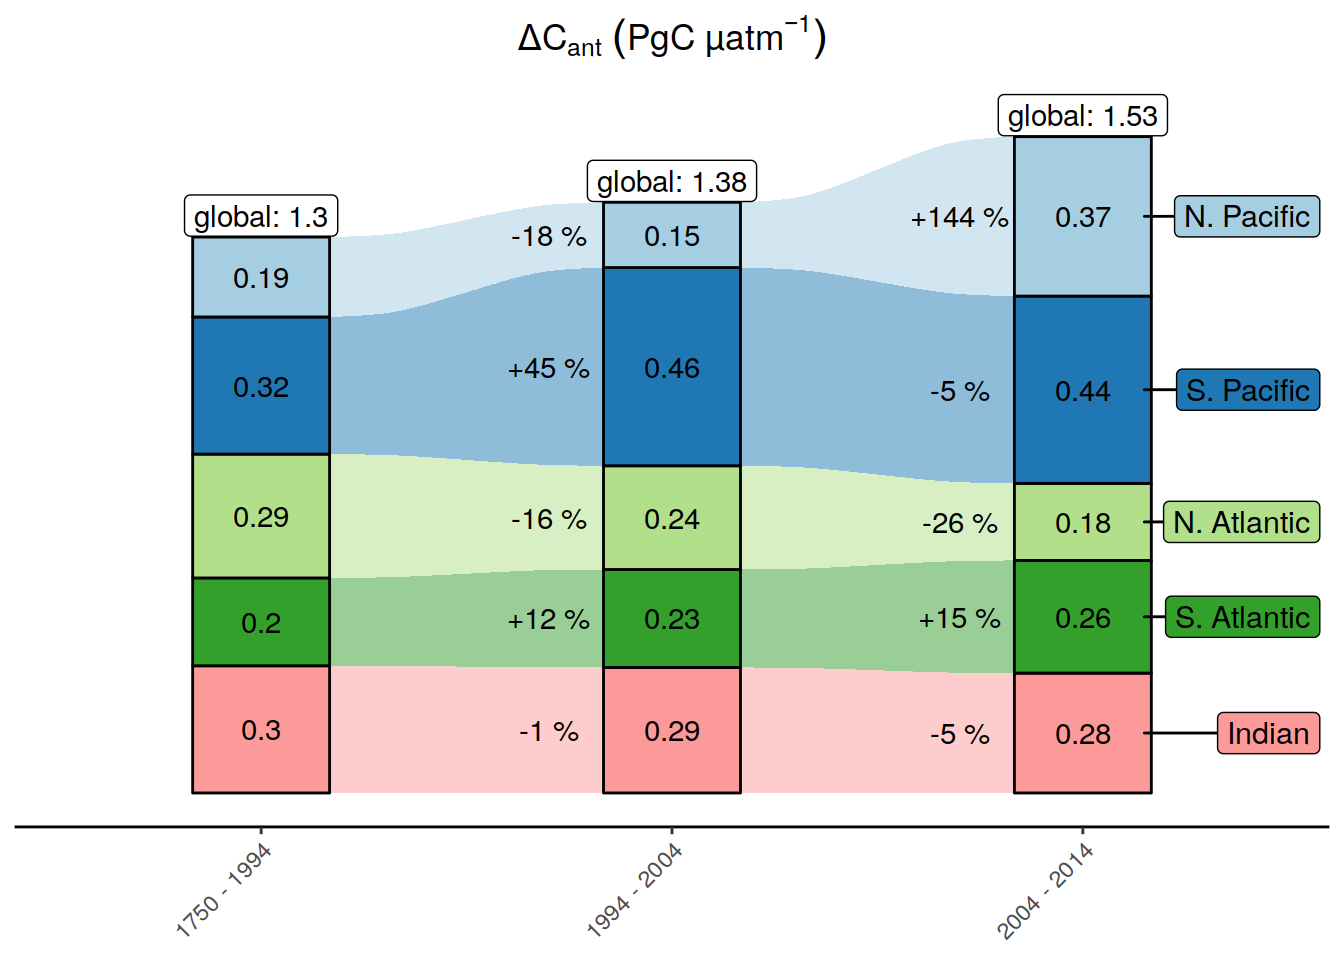
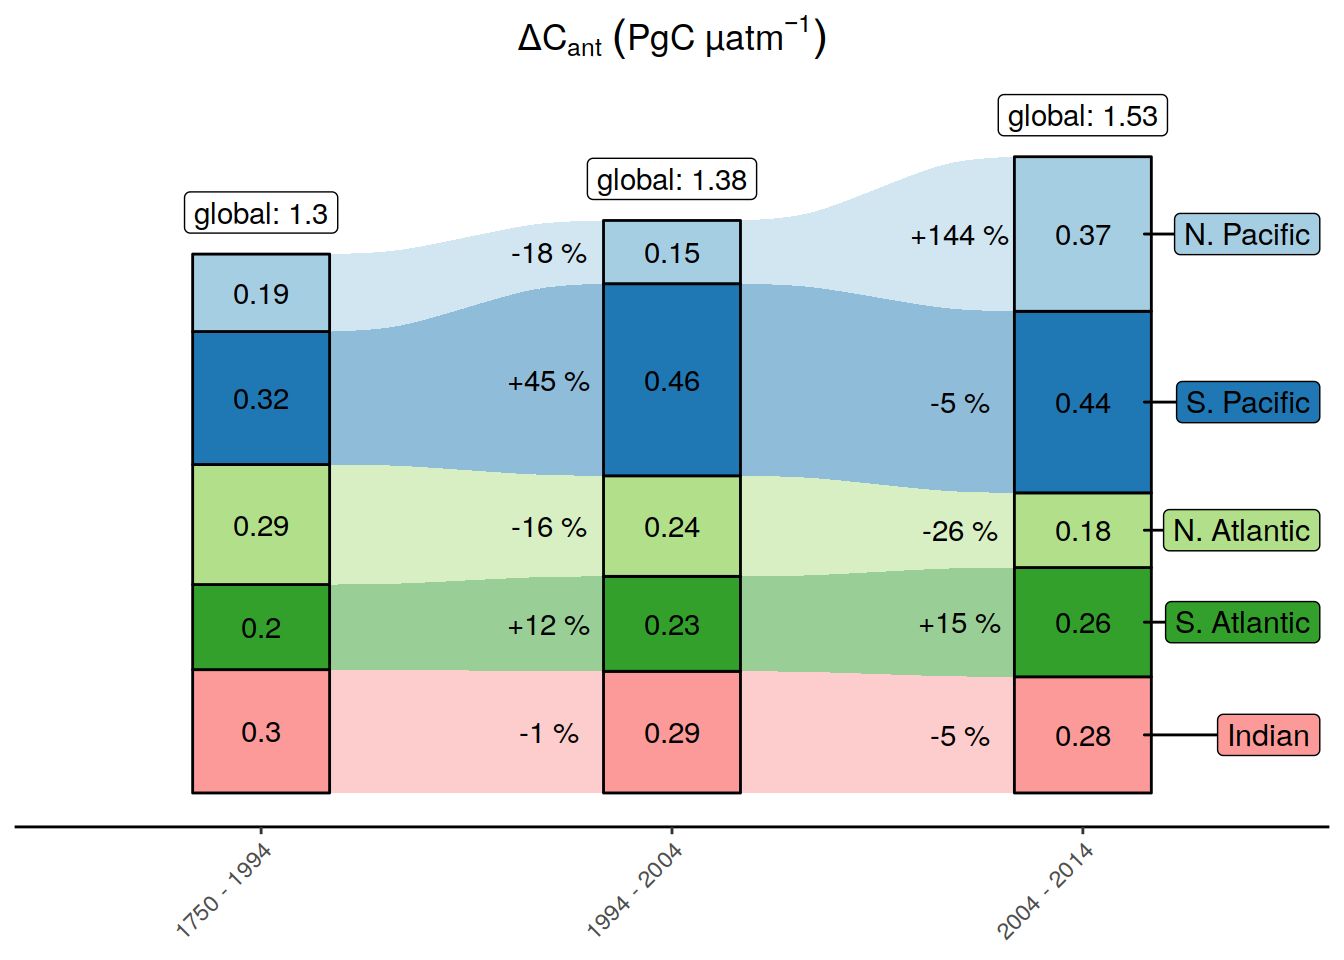
Build site.

diff --git a/docs/results_publication.html b/docs/results_publication.html
@@ -673,16 +673,16 @@ This reproducible <a href="https://rmarkdown.rstudio.com">R Markdown</a> analysi
 <div class="panel panel-default">
 <div class="panel-heading">
 <p class="panel-title">
-<a data-toggle="collapse" data-parent="#workflowr-checks" href="#strongRepositoryversionstrongahrefhttpsgithubcomjensdanielmuelleremlrobsanalysistreeed056e284e6c7b2be7e2b0de2390f7510ba9a9aatargetblanked056e2a"> <span class="glyphicon glyphicon-ok text-success" aria-hidden="true"></span> <strong>Repository version:</strong> <a href="https://github.com/jens-daniel-mueller/emlr_obs_analysis/tree/ed056e284e6c7b2be7e2b0de2390f7510ba9a9aa" target="_blank">ed056e2</a> </a>
+<a data-toggle="collapse" data-parent="#workflowr-checks" href="#strongRepositoryversionstrongahrefhttpsgithubcomjensdanielmuelleremlrobsanalysistree09dd555c720b68bc8939008cef526407a3e12b25targetblank09dd555a"> <span class="glyphicon glyphicon-ok text-success" aria-hidden="true"></span> <strong>Repository version:</strong> <a href="https://github.com/jens-daniel-mueller/emlr_obs_analysis/tree/09dd555c720b68bc8939008cef526407a3e12b25" target="_blank">09dd555</a> </a>
 </p>
 </div>
[2 lines of base64/hex data omitted]
 <div class="panel-body">
 <p>
 Great! You are using Git for version control. Tracking code development and connecting the code version to the results is critical for reproducibility.
 </p>
 <p>
-The results in this page were generated with repository version <a href="https://github.com/jens-daniel-mueller/emlr_obs_analysis/tree/ed056e284e6c7b2be7e2b0de2390f7510ba9a9aa" target="_blank">ed056e2</a>. See the <em>Past versions</em> tab to see a history of the changes made to the R Markdown and HTML files.
+The results in this page were generated with repository version <a href="https://github.com/jens-daniel-mueller/emlr_obs_analysis/tree/09dd555c720b68bc8939008cef526407a3e12b25" target="_blank">09dd555</a>. See the <em>Past versions</em> tab to see a history of the changes made to the R Markdown and HTML files.
 </p>
 <p>
 Note that you need to be careful to ensure that all relevant files for the analysis have been committed to Git prior to generating the results (you can use <code>wflow_publish</code> or <code>wflow_git_commit</code>). workflowr only checks the R Markdown file, but you know if there are other scripts or data files that it depends on. Below is the status of the Git repository when the results were generated:
@@ -732,6 +732,40 @@ Message
 </tr>
 </thead>
 <tbody>
+<tr>
+<td>
+Rmd
+</td>
+<td>
+<a href="https://github.com/jens-daniel-mueller/emlr_obs_analysis/blob/09dd555c720b68bc8939008cef526407a3e12b25/analysis/results_publication.Rmd" target="_blank">09dd555</a>
+</td>
+<td>
+jens-daniel-mueller
+</td>
+<td>
+2022-02-02
+</td>
+<td>
+incl sabine budgets
+</td>
+</tr>
+<tr>
+<td>
+html
+</td>
+<td>
+<a href="https://rawcdn.githack.com/jens-daniel-mueller/emlr_obs_analysis/226d67d39647e6cf1973e685dba1491d6b47f16f/docs/results_publication.html" target="_blank">226d67d</a>
+</td>
+<td>
+jens-daniel-mueller
+</td>
+<td>
+2022-02-02
+</td>
+<td>
+Build site.
+</td>
+</tr>
 <tr>
 <td>
 Rmd
@@ -4623,7 +4657,7 @@ jens-daniel-mueller
 </div>
 </div>
 <pre class="r"><code>g2 &lt;- dcant_budget_basin_MLR_all_plot %&gt;%
-    filter(period != &quot;1750 - 1994&quot;) %&gt;% 
+    filter(period != &quot;1750 - 1994&quot;) %&gt;%
   ggplot(aes(
     y = dcant,
     x = period,
@@ -5019,11 +5053,48 @@ g2 +
   geom_label(data = new_layer_total,
             aes(
               x = x,
-              y = y + 0.05,
+              y = y + 0.1,
               label = dcant_change
             ),
             inherit.aes = FALSE)</code></pre>
 <p><img src="figure/results_publication.Rmd/budgets_basins_hemisphere_alluvial_order_basin_scaled_incl_sabine-1.png" width="672" style="display: block; margin: auto;" /></p>
+<p>
+<button type="button" class="btn btn-default btn-xs btn-workflowr btn-workflowr-fig" data-toggle="collapse" data-target="#fig-budgets_basins_hemisphere_alluvial_order_basin_scaled_incl_sabine-1">
+Past versions of budgets_basins_hemisphere_alluvial_order_basin_scaled_incl_sabine-1.png
+</button>
+</p>
+<div id="fig-budgets_basins_hemisphere_alluvial_order_basin_scaled_incl_sabine-1" class="collapse">
+<div class="table-responsive">
+<table class="table table-condensed table-hover">
+<thead>
+<tr>
+<th>
+Version
+</th>
+<th>
+Author
+</th>
+<th>
+Date
+</th>
+</tr>
+</thead>
+<tbody>
+<tr>
+<td>
+<a href="https://github.com/jens-daniel-mueller/emlr_obs_analysis/blob/226d67d39647e6cf1973e685dba1491d6b47f16f/docs/figure/results_publication.Rmd/budgets_basins_hemisphere_alluvial_order_basin_scaled_incl_sabine-1.png" target="_blank">226d67d</a>
+</td>
+<td>
+jens-daniel-mueller
+</td>
+<td>
+2022-02-02
+</td>
+</tr>
+</tbody>
+</table>
+</div>
+</div>
 </div>
 <div id="depth-layer" class="section level2" number="7.2">
 <h2><span class="header-section-number">7.2</span> Depth layer</h2>
@@ -5467,7 +5538,7 @@ jens-daniel-mueller
   select(year = tref2, dcant_mean = dcant) %&gt;% 
   mutate(dcant_sd = 3)
 
-tcant_S04 &lt;- bind_cols(year = 1994, dcant_mean = 118, dcant_sd = 19)
+tcant_S04 &lt;- bind_cols(year = 1994, dcant_mean = 102, dcant_sd = 19)
 
 tcant_ts &lt;- full_join(dcant_budget_global_ts, tcant_S04)
 
